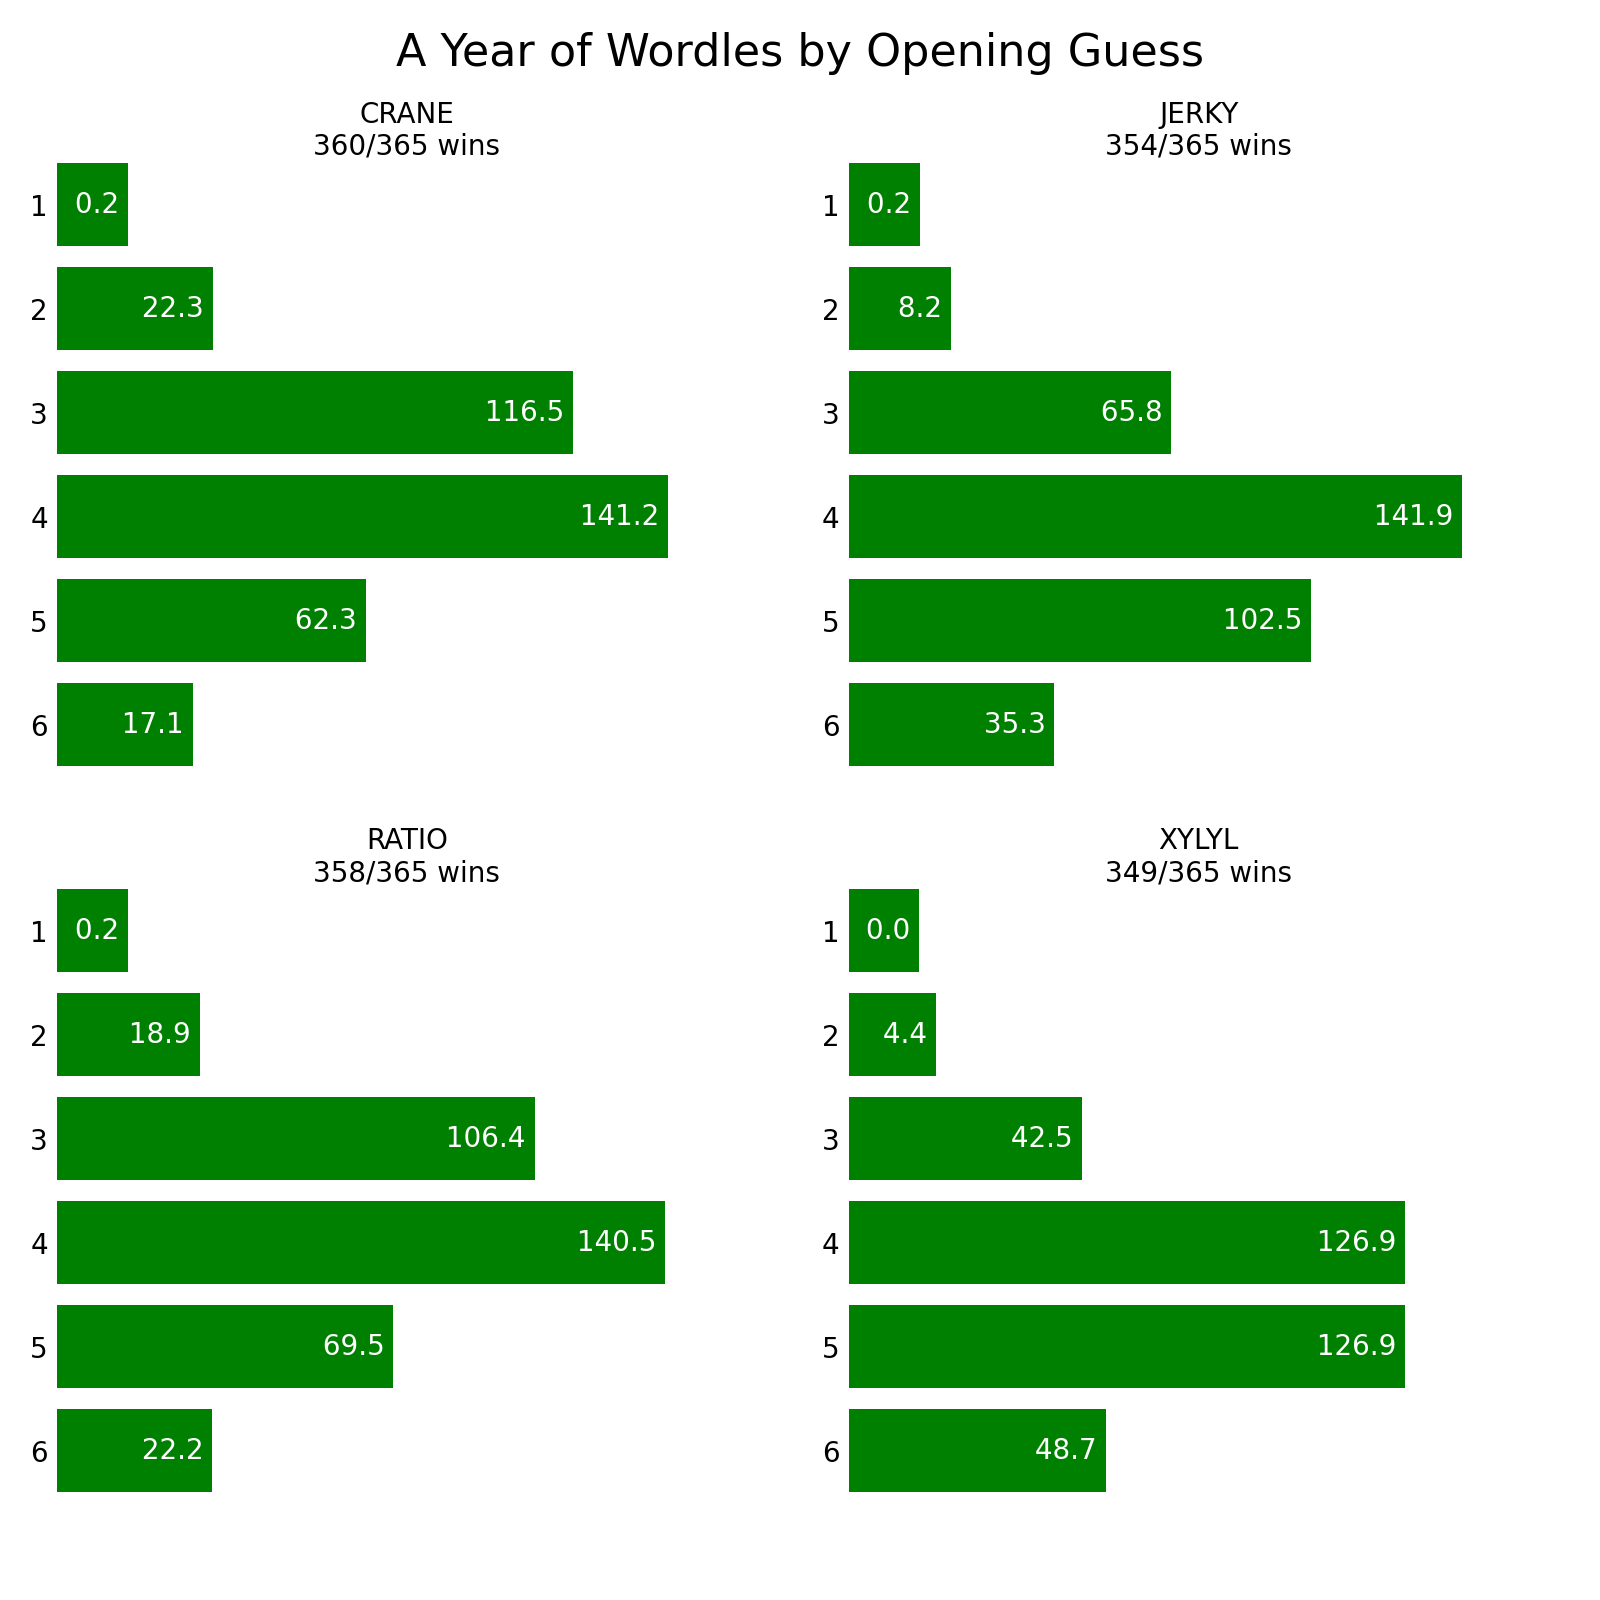
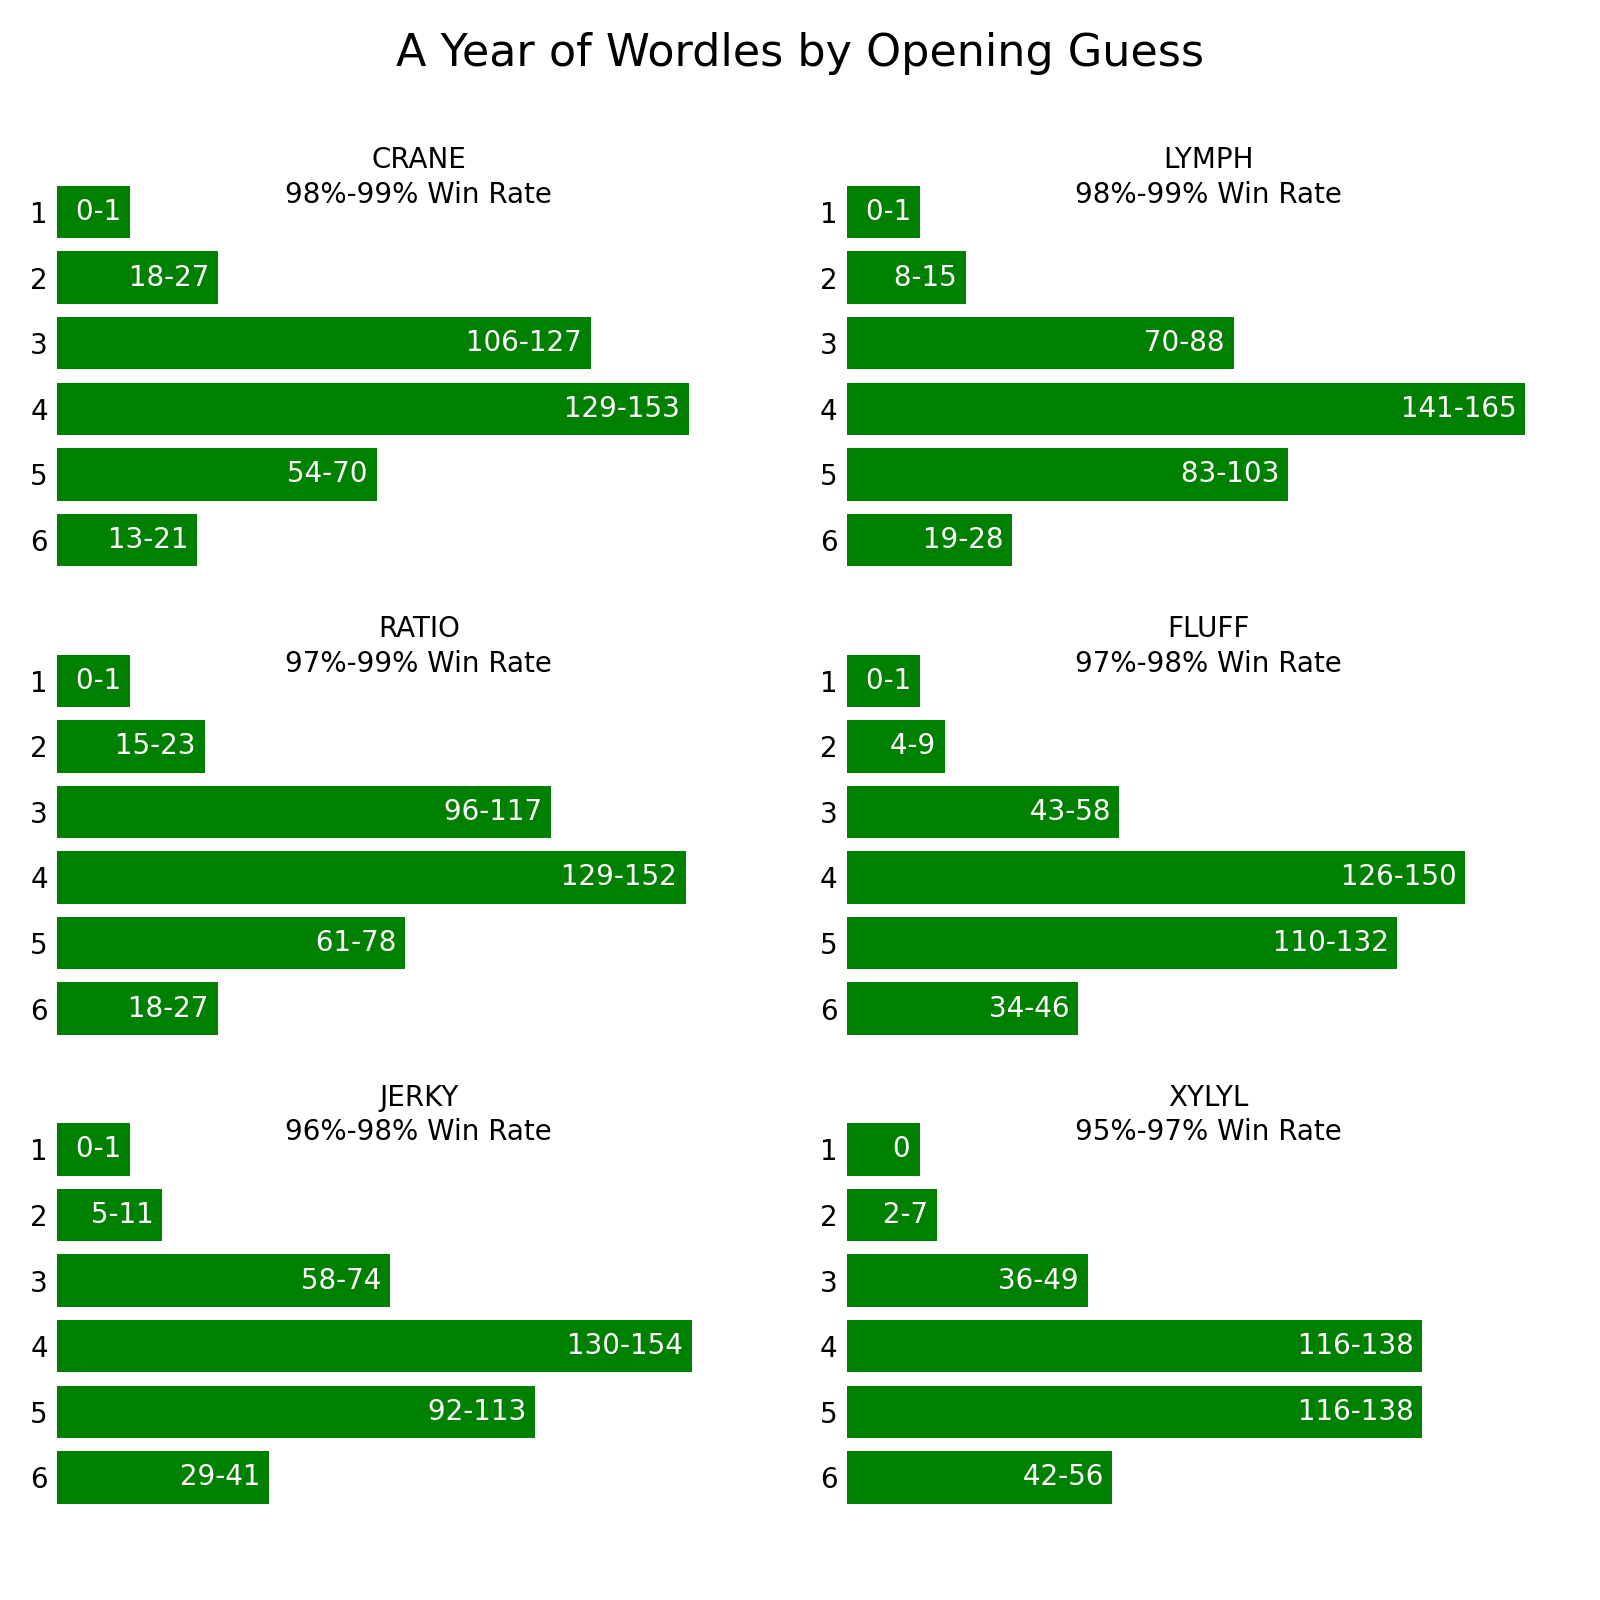
wordle almost done

diff --git a/_drafts/2022-02-11-wordle.md b/_drafts/2022-02-11-wordle.md
@@ -8,7 +8,7 @@ tags: code media
 
 Based on an analysis of all legal words in [Wordle][wordle], the [best starting word][soare] is `SOARE`.
 Or maybe, using [information theory][crane], it's `CRANE`.
-An [economist recommends][slice] `SLICE` if you want to minimize number of moves, or `ADEPT` if you want to minimize your odds to fail.
+An [economist recommends][slice] `SLICE` if you want to minimize the number of guesses, or `ADEPT` if you want to minimize your odds to fail.
 I personally start with `RATIO`, since I get the feeling that the author avoids[^1] the letter `E` to keep things interesting.
 All these big-brain takes raise the question: how much does it really matter?
 
@@ -17,10 +17,10 @@ All these big-brain takes raise the question: how much does it really matter?
 To investigate, I put together a computer simulation of Wordle (source code [here][source]).
 The first guess can be specified.
 Each subsequent guess is chosen randomly, taking into account all past clues.
-Essentially, the computer plays in hard mode[^2] and always goes with the first compatible guess that pops into its head.
+Essentially, the computer plays on hard mode[^2] and always goes with the first compatible guess that pops into its head.
 By applying that strategy to thousands upon thousands of puzzles, we can get a sense for the importance of a good opening word.
 
-[^2]: From an informal survey, it seems like most people follow the rules of hard mode, whether or not they've flipped the toggle.
+[^2]: On Wordle, hard mode means you must use all yellow and green letters. The computer is actually more strict than that. It always uses green letters in that same place, always uses yellow letters in a different place, and never uses gray letters again. From an informal survey, many players seem to follow these same strict constraints.
 
 ![Wordle Simulation Screenshot](/assets/images/wordle-simulation.png)
 *My code can generate and solve about a thousand random Wordle puzzles per minute on my laptop. And, because it uses the solutions list, it's pretty good about sticking to "real" words.*
@@ -29,7 +29,8 @@ Before we get into the results, a quick disclaimer.
 Wordle has two word lists.
 There's a list of possible solutions (2,300 words) and a list of allowed guesses (12,900 words).
 The vast majority of "real" words are in the solutions list, while the [non-solution words][non_solutions] are mostly nonsense like `KYLIX` and `UMIAQ`.
-In the interest of imitating human play patterns, the model completely ignores the non-solution word list.
+In the interest of imitating human play patterns, the model only uses the solutions list.
+The longer list of allowed guesses is complete ignored.
 
 I ran each of the starting words from above through 40,000 simulated puzzles.
 Then I did the same with a variety of other starting words for comparison: `ADIEU` (lots of vowels), `LYMPH` (no vowels), `GEESE` (duplicate vowels), `JERKY` (uncommon consonants), `FLUFF` (duplicate consonants), `MOIST` (funny), and `XYLYL` (possibly the [worst starting word][soare]).
@@ -61,7 +62,7 @@ Due to small-number statistics[^4], that sort of difference won't be visible wee
 [^4]: Statistical uncertainty is tricky for [small numbers][sqrt_n]. Over the course of 365 samples, a 2% failure rate will show up about 5-11 times. A 3% failure rate will show up about 7-13 times. That's a lot of overlap!
 
 ![A Year of Wordles](/assets/images/wordle-graphs.png)
-*Wordle-style graphs for a handful of starting words. No surprises here. The best starting words also have the best odds of winning faster.*
+*STARTING WORD MATTERS< BUT SO DOES LUCK. Wordle-style graphs for a handful of starting words. No surprises here. The best starting words also have the best odds of winning faster.*
 
 Your opening word has a bigger impact on your expected number of guesses, though it's still not huge.
 With a top-tier starting word like `CRANE` or `SLICE`, you should expect to enter about 27 guesses over the course of a week.
@@ -73,7 +74,9 @@ You might win less on average, but the difference is quite small.
 
 Failures are generally bad luck (or brain farts) rather than opening word
 
-
+lymph has a weird shape, especially compared to ratio
+lots of medium-rate consonants
+common letters might get stuck in `LIGHT`/`FIGHT`/`SIGHT` or `BRAKE`/`CRANE`/`GRAZE`
 
 
 
